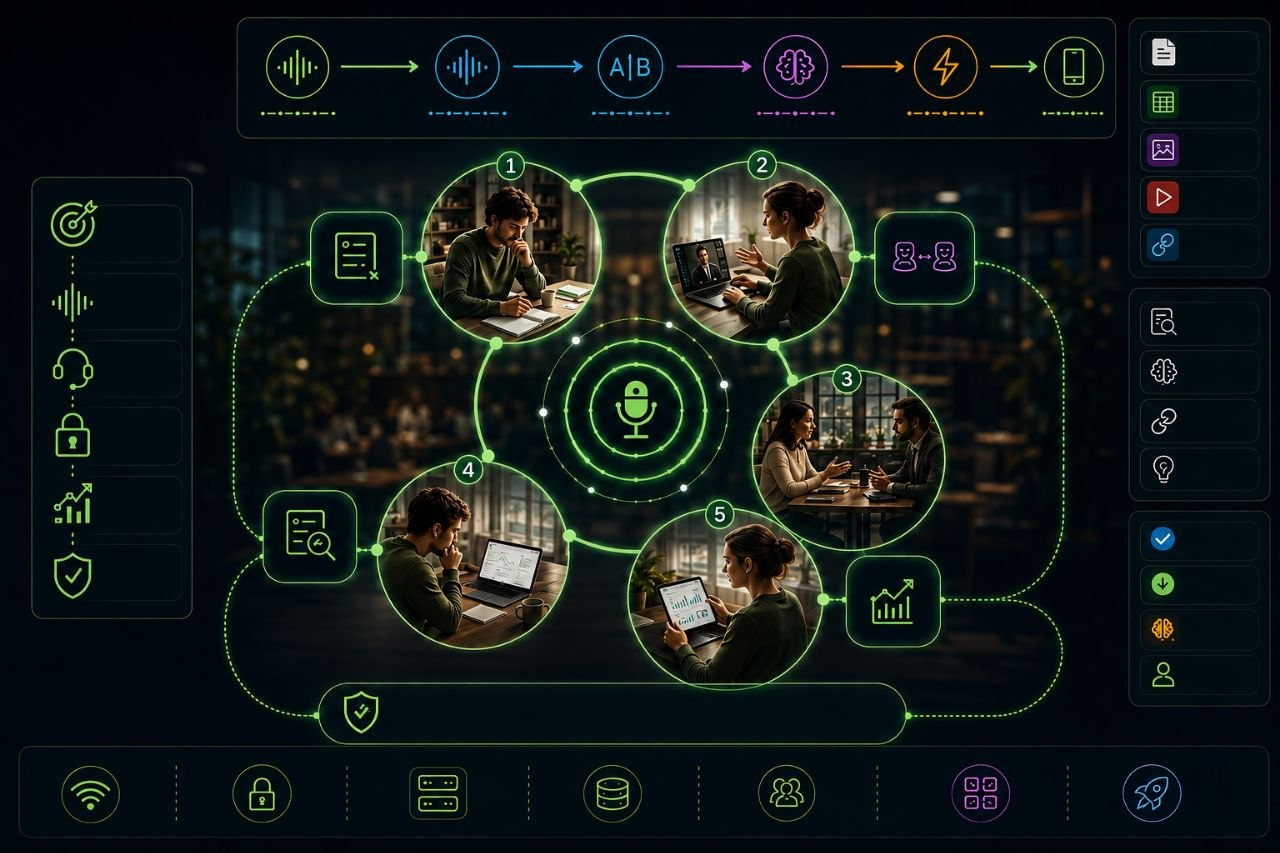
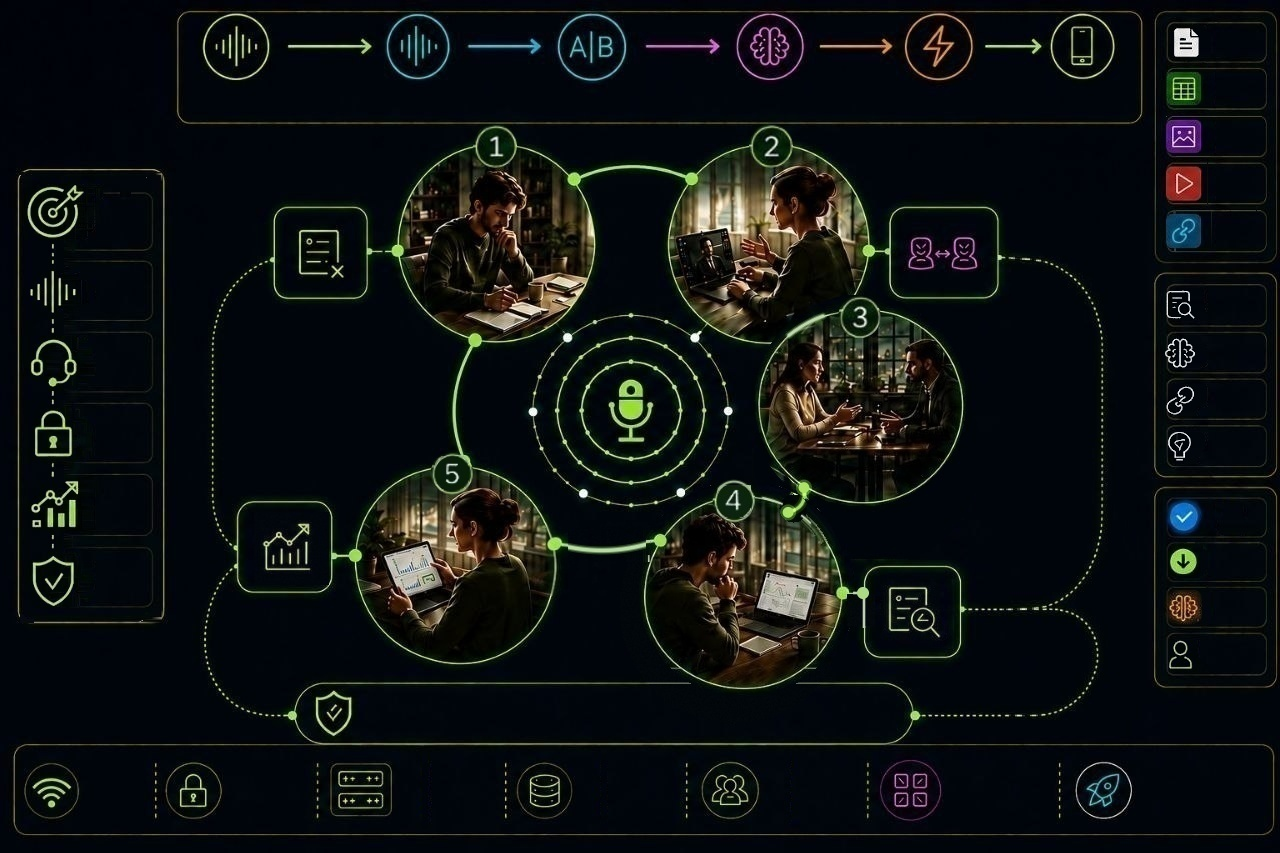
landing: 5 steps.v17 +sync

diff --git a/apps/landing/src/components/CycleSteps.tsx b/apps/landing/src/components/CycleSteps.tsx
@@ -55,21 +55,27 @@ const CENTER_POSITION = { top: 55, left: 49.87 };
 
 // Цвета pipeline-элементов — измерены программно с реального
 // изображения (не приближение на глаз): цвет кольца каждой иконки
-// (яркие пиксели окантовки), не приглушённый цвет пунктирной линии
-// под ней (та полупрозрачная, даёт зашумлённый через JPEG результат).
-// Итоговые оттенки — чистые версии того же цветового семейства, не
-// сырые сэмплированные значения (JPEG-сжатие давало смещённые в серый
-// оттенки). Позиция текста — на месте самой пунктирной линии-
-// "артефакта" под иконкой (измерено: ~11-13% высоты канваса у разных
-// иконок, взято среднее 12.5%), не на месте самой иконки (было
-// 8.59% — прямо поверх пиктограммы).
-const PIPELINE_LEFT = [23.11, 36.46, 49.35, 62.17, 73.18, 84.05];
-// Шрифт увеличен (10px→13px) и позиция сдвинута вниз на половину
-// высоты шрифта (~6.5px = 0.76% высоты канваса 853px) — по прямому
-// запросу: пунктирная линия-"артефакт" шире тёмной подложки текста,
-// более крупный шрифт даёт более широкую подложку (max-content),
-// сдвиг вниз точнее центрирует её на самой линии.
-const PIPELINE_TOP = 13.3;
+// (яркие пиксели окантовки). Итоговые оттенки — чистые версии того
+// же цветового семейства, не сырые сэмплированные значения (JPEG-
+// сжатие даёт смещённые в серый оттенки).
+//
+// Пункт: после замены иллюстрации на новую версию (круги 4/5
+// профессионально переставлены дизайнером) координаты пересчитаны
+// заново под неё — старые (для предыдущей версии картинки) были
+// заметно левее. В НОВОЙ версии иллюстрации пунктирной линии-
+// "артефакта" под иконками больше нет вообще (упрощённый дизайн) —
+// текст выровнен по центру самих иконок и поднят выше (близко к
+// нижнему краю иконки, не в середину пустого пространства под ней).
+//
+// Первая попытка (18.4/32.6/46.2/60.1 не хватало точности слева,
+// последние два — 72.4/83.8 — сразу легли верно) была откалибрована
+// повторным замером с перекрёстной проверкой против уже подтверждённых
+// правильными координат. top поднят слишком сильно в первой попытке
+// (10%) — перекрывал кольца самих иконок, опущен обратно с запасом
+// до 12.5%, затем по прямому запросу приподнят ещё на 5px (0.586% от
+// высоты канваса 853px).
+const PIPELINE_LEFT = [18.4, 32.6, 46.2, 60.1, 72.4, 83.8];
+const PIPELINE_TOP = 11.91;
 const PIPELINE_COLORS = ['#7ed957', '#4fc3f7', '#4fc3f7', '#c084fc', '#f0a94e', '#7ed957'];
 
 export function CycleSteps({ dict }: { dict: Dictionary }) {

diff --git a/apps/landing/src/app/globals.css b/apps/landing/src/app/globals.css
@@ -922,7 +922,7 @@ p {
 }
 
 .cycle__overlay-pipeline {
-  font-size: 13px;
+  font-size: 15px;
   font-weight: 600;
   color: #d6dae1;
   letter-spacing: 0.02em;
